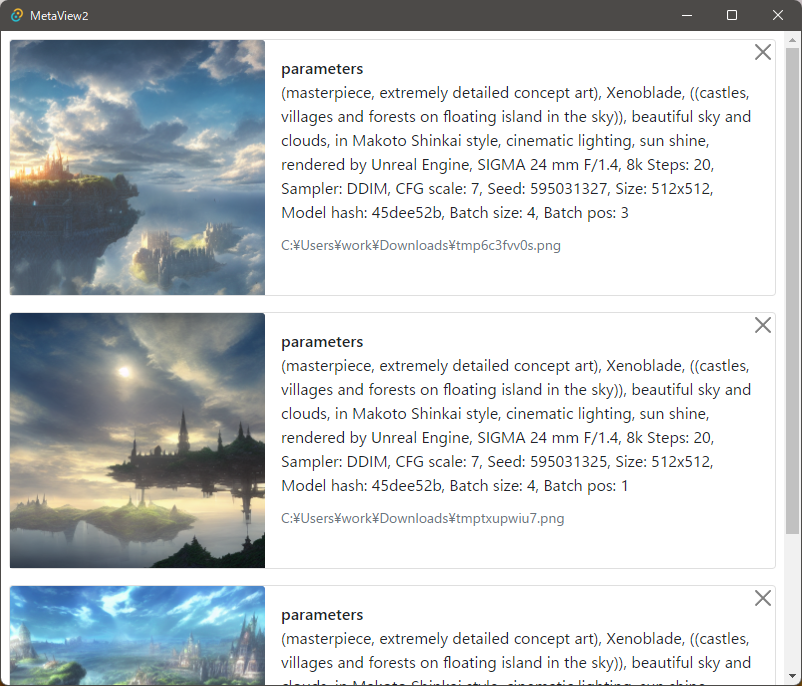
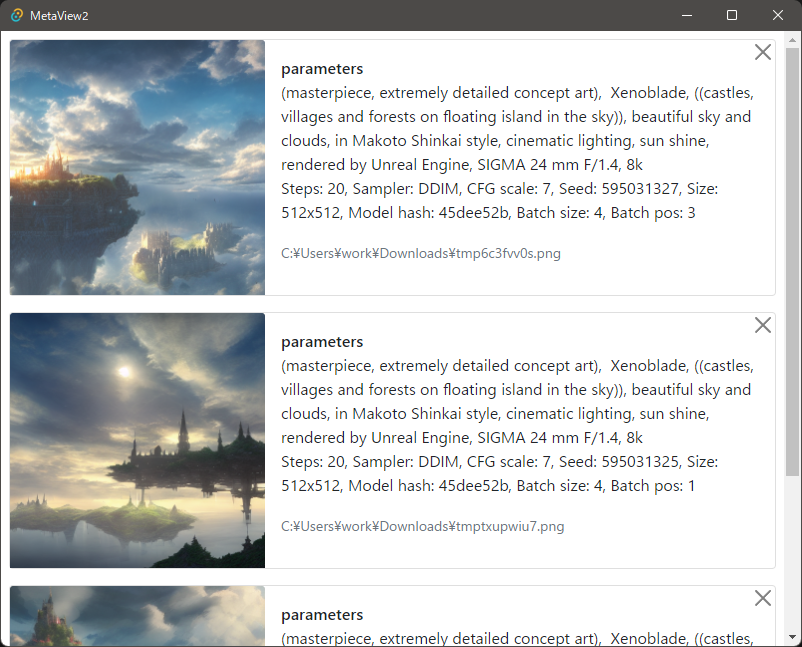
Bug fix
* 改行文字が表示に反映されない問題を修正
* 日本語が含まれるプロンプトを表示できない問題を修正

diff --git a/src/App.jsx b/src/App.jsx
@@ -4,6 +4,21 @@ import { listen } from '@tauri-apps/api/event';
 import { convertFileSrc } from '@tauri-apps/api/tauri';
 import "./App.css";
 
+function MetadataList({ metadata }) {
+  const metadataItems = metadata.map(([name, value], index) =>
+    <React.Fragment key={index}>
+      <dt>{name}</dt>
+      <dd>{value}</dd>
+    </React.Fragment>
+  );
+
+  return (
+    <dl className="image-metadata">
+      {metadataItems}
+    </dl>
+  );
+}
+
 function ImageCard({ image, focusOn }) {
   const el = useRef(null);
   useEffect(() => {
@@ -16,13 +31,6 @@ function ImageCard({ image, focusOn }) {
     invoke("remove_image", { id: image.id }).catch(console.error);
   }
 
-  const metadataItems = image.metadata.map((kv, index) =>
-    <React.Fragment key={index}>
-      <dt>{kv[0]}</dt>
-      <dd>{kv[1]}</dd>
-    </React.Fragment>
-  );
-
   return (
     <div className="card mb-3" ref={el}>
       <div className="row g-0">
@@ -32,7 +40,7 @@ function ImageCard({ image, focusOn }) {
         <div className="col-md-8 position-relative">
           <button type="button" className="btn-close position-absolute top-0 end-0" aria-label="Close" onClick={handleCloseButtonClick}></button>
           <div className="card-body">
-            {metadataItems}
+            <MetadataList metadata={image.metadata} />
             <p className="card-text"><small className="text-muted">{image.filename}</small></p>
           </div>
         </div>
@@ -48,7 +56,7 @@ function App() {
   useEffect(() => {
     console.log("Listen file-drop");
     const unlisten = listen("tauri://file-drop", event => {
-      if (event.payload.length == 0) {
+      if (event.payload.length === 0) {
         return;
       }
       const filename = event.payload[0];
@@ -90,13 +98,9 @@ function App() {
     );
   }
 
-  const imageCards = images.map(image => {
-    return (
-      <React.Fragment key={image.id}>
-        <ImageCard image={image} focusOn={image.id == focusOn} />
-      </React.Fragment>
-    );
-  })
+  const imageCards = images.map(image =>
+    <ImageCard image={image} focusOn={image.id === focusOn} key={image.id} />
+  )
 
   return (
     <div className="container-fluid" style={{padding: "8px"}}>

diff --git a/index.html b/index.html
@@ -5,7 +5,7 @@
     <link rel="icon" type="image/svg+xml" href="/vite.svg" />
     <link rel="stylesheet" href="/bootstrap/css/bootstrap.min.css" />
     <meta name="viewport" content="width=device-width, initial-scale=1.0" />
-    <title>Tauri + React</title>
+    <title>MetaView2</title>
   </head>
 
   <body>

diff --git a/src/style.css b/src/style.css
@@ -1,0 +1,3 @@
+.image-metadata > dd {
+    white-space: pre-wrap;
+}

diff --git a/src-tauri/src/main.rs b/src-tauri/src/main.rs
@@ -12,28 +12,31 @@ use std::{
         Mutex,
     },
 };
-use tauri::{Manager};
+use tauri::Manager;
 
 fn read_png_metadata(filename: &str) -> anyhow::Result<Vec<(String, String)>> {
     let f = File::open(filename)?;
     let decoder = png::Decoder::new(f);
-    let reader = decoder.read_info().map_err(|e| {
-        match e {
-            DecodingError::Format(_) => {
-                anyhow::anyhow!("Not a PNG file: {}", filename)
-            }
-            _ => {
-                anyhow::anyhow!("Failed to open PNG: {}", e)
-            }
+    let reader = decoder.read_info().map_err(|e| match e {
+        DecodingError::Format(_) => {
+            anyhow::anyhow!("Not a PNG file: {}", filename)
+        }
+        _ => {
+            anyhow::anyhow!("Failed to open PNG: {}", e)
         }
     })?;
     let info = reader.info();
-    let ret = info
+    let latin1_data = info
         .uncompressed_latin1_text
         .iter()
-        .map(|chunk| (chunk.keyword.clone(), chunk.text.clone()))
-        .collect();
-    Ok(ret)
+        .map(|chunk| (chunk.keyword.clone(), chunk.text.clone()));
+    let utf8_data = info.utf8_text.iter().map(|chunk| {
+        (
+            chunk.keyword.clone(),
+            chunk.get_text().unwrap_or("".to_owned()),
+        )
+    });
+    Ok(latin1_data.chain(utf8_data).collect())
 }
 
 #[derive(Debug, Clone, Serialize)]
@@ -66,10 +69,7 @@ struct StateChangedPayload {
     focus_on: u32,
 }
 
-fn emit_state_changed(
-    state: tauri::State<'_, State>,
-    app_handle: tauri::AppHandle,
-) {
+fn emit_state_changed(state: tauri::State<'_, State>, app_handle: tauri::AppHandle) {
     let images = state.images.lock().unwrap();
     app_handle
         .emit_all(
